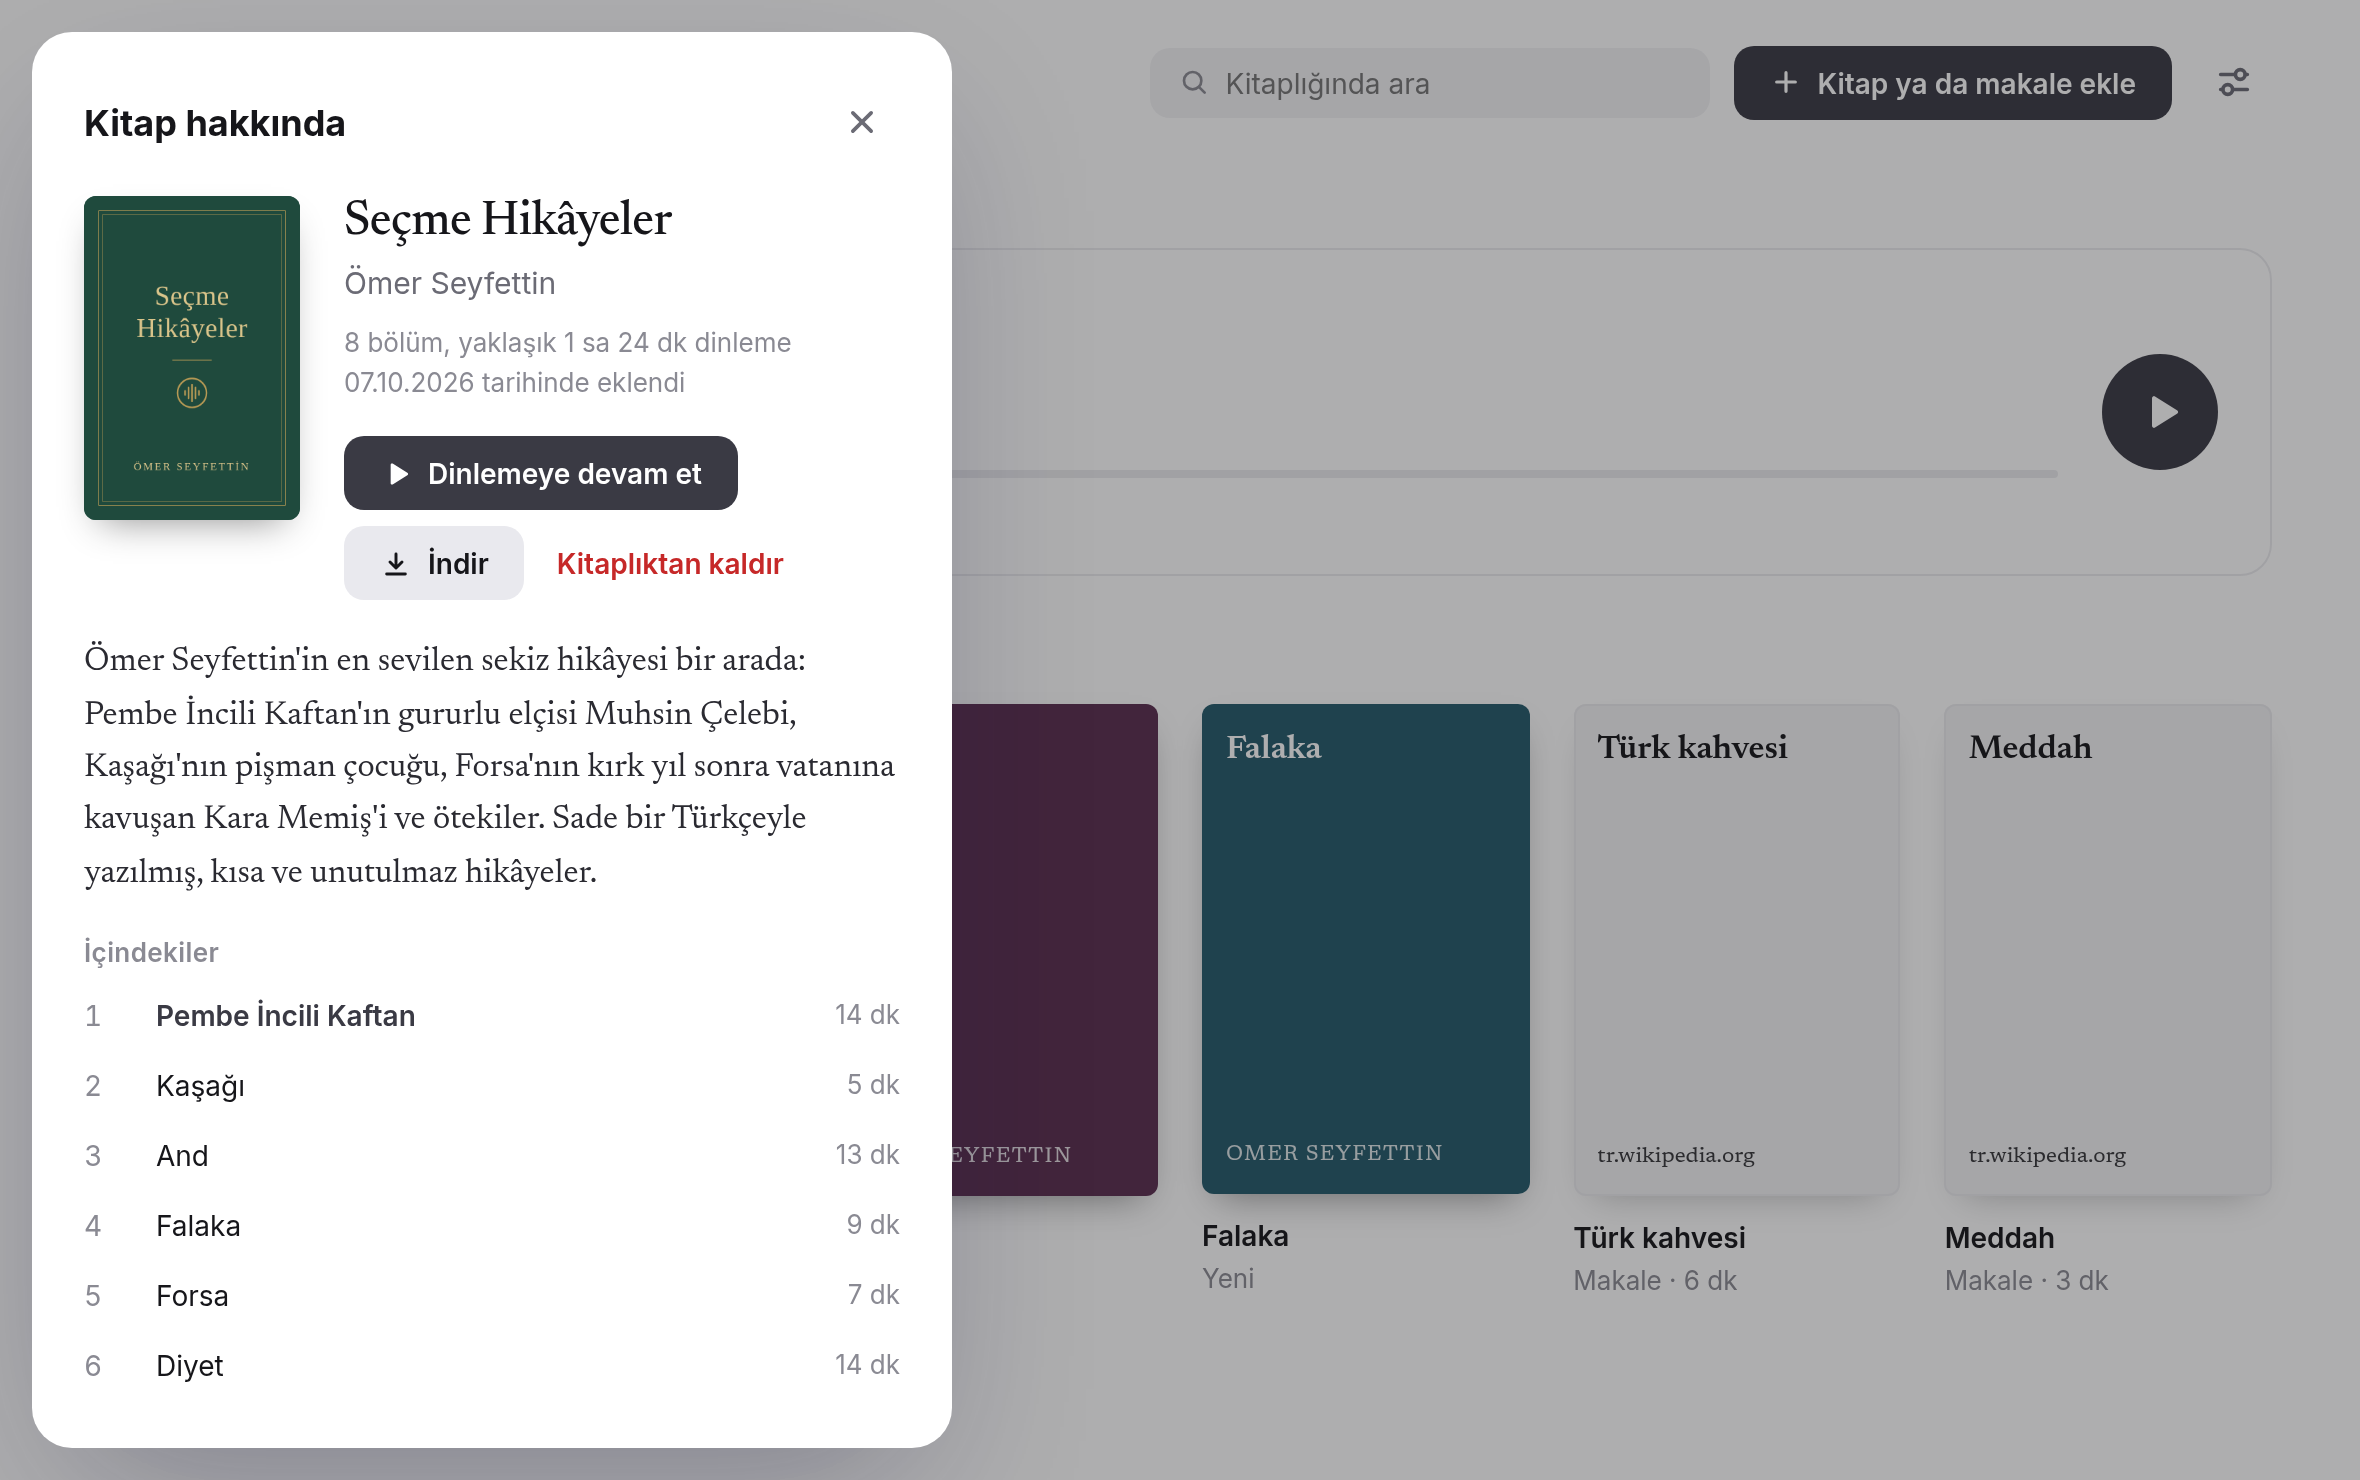
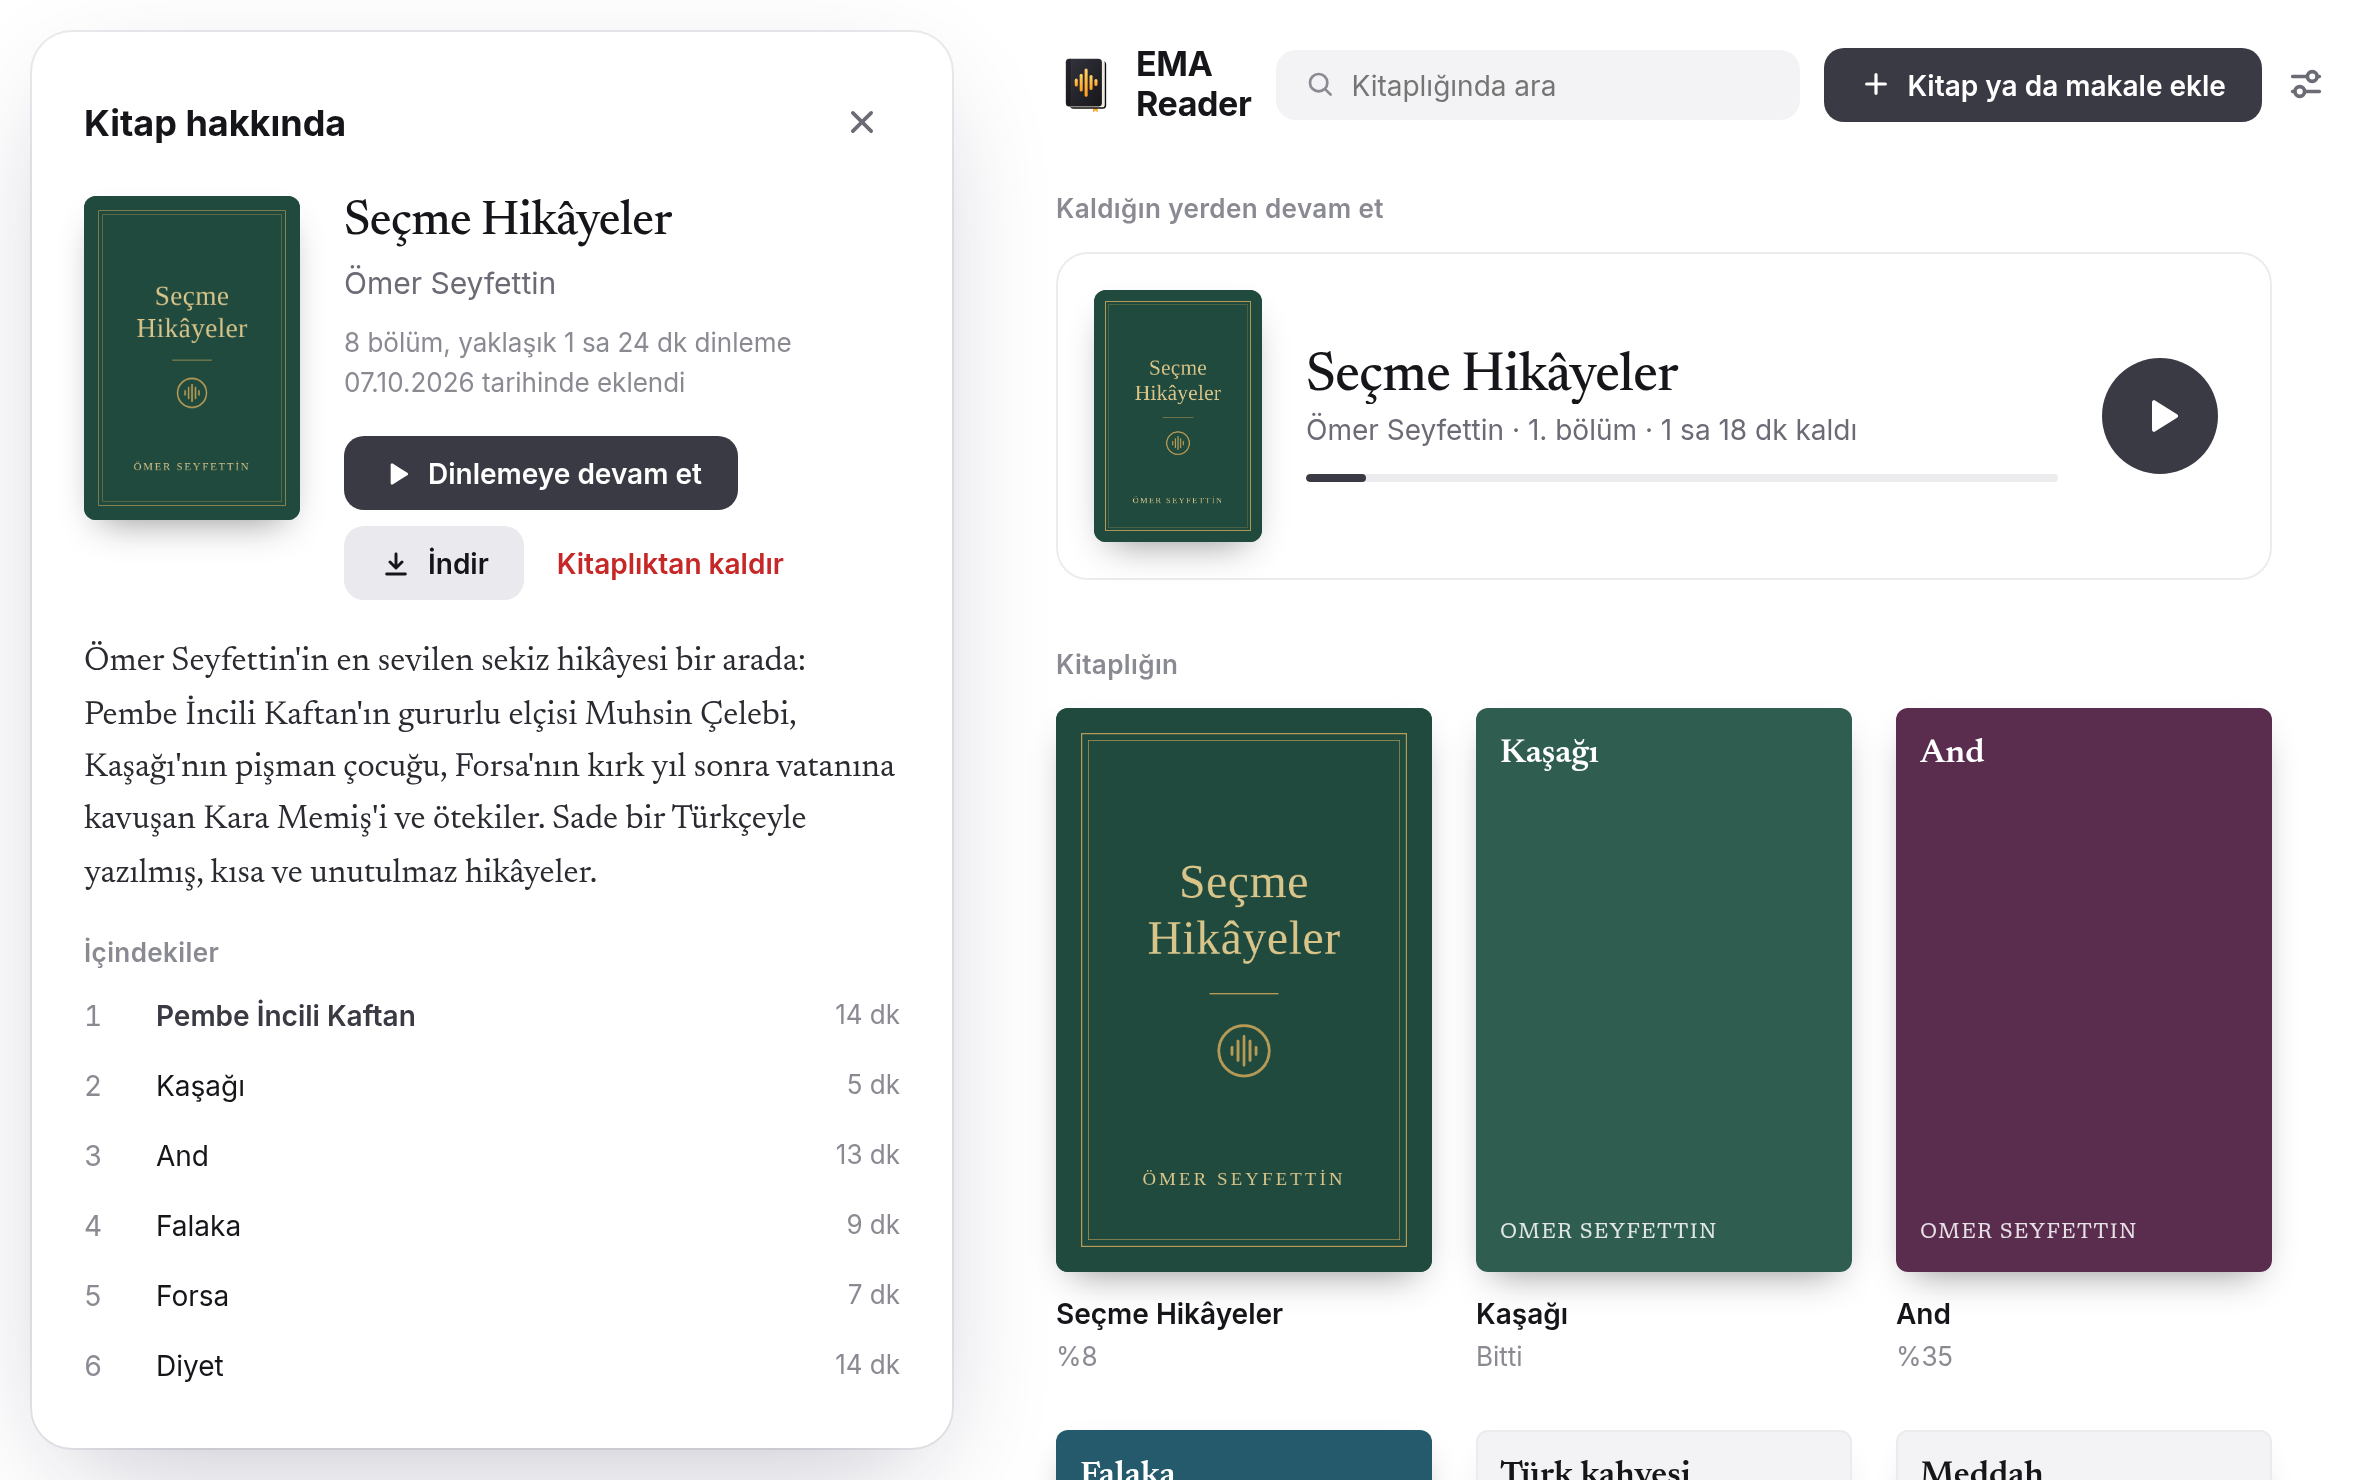
Open a book's details beside the page instead of over it
The panel floats in at the left edge and the page narrows to make room, so the library and
the reader stay in use while it is open. Where the window is too narrow to give room, the
panel lies over the page as before. Escape and its close button put it away.

diff --git a/static/index.html b/static/index.html
@@ -154,15 +154,18 @@
   .contents small { color: var(--faint); font-size: 13px; white-space: nowrap; }
   .contents button.current span { font-weight: 600; color: var(--accent); }
 
-  /* about a book: not a window in the middle but a panel that floats in from the left */
-  #info-dialog { inset: 16px auto 16px 16px; margin: 0; width: min(460px, calc(100vw - 32px)); height: calc(100vh - 32px); max-height: none; animation: panel-in .22s ease-out; }
+  /* about a book: not a window over the page but a panel that floats in at the left edge, and the page makes room for it */
+  #info-dialog { position: fixed; z-index: 6; inset: 16px auto 16px 16px; margin: 0; width: min(460px, calc(100vw - 32px)); height: calc(100vh - 32px); max-height: none; overflow-y: auto; animation: panel-in .22s ease-out;
+                 box-shadow: 0 20px 60px -20px var(--shade), 0 0 0 1px var(--line); }
+  body { padding-left: var(--side, 0px); transition: padding-left .22s ease-out; }
+  @media (min-width: 1000px) { body.with-info { --side: 484px; } }   /* a narrower window has no room to give: there the panel lies over the page */
   #info-dialog .sheet { display: flex; flex-direction: column; min-height: 100%; }
   #info-dialog .bookhead .cover { width: 108px; }
   #info-dialog .bookhead h3 { font-size: 24px; }
   #info-dialog .describe { flex: none; }
   #info-dialog .contents { flex: 1 1 0; min-height: 150px; max-height: none; }
   @keyframes panel-in { from { opacity: 0; transform: translateX(-28px); } }
-  @media (prefers-reduced-motion: reduce) { #info-dialog { animation: none; } }
+  @media (prefers-reduced-motion: reduce) { #info-dialog { animation: none; } body { transition: none; } }
 
   .options { display: grid; grid-template-columns: repeat(3, 1fr); gap: 8px; }
   .options button { text-align: left; padding: 12px 14px; border-radius: 12px; border: 1.5px solid var(--line); min-width: 0; }
@@ -197,7 +200,7 @@
   #text span:hover { background: var(--soft); }
   #text span.current { background: var(--accent-soft); color: var(--ink); }
 
-  #player { position: fixed; left: 50%; bottom: 26px; transform: translateX(-50%); display: flex; align-items: center; gap: 14px; padding: 10px 14px 10px 12px; border-radius: 999px; background: var(--surface); box-shadow: 0 14px 40px -10px var(--shade), 0 0 0 1px var(--line); }
+  #player { position: fixed; left: calc(50% + var(--side, 0px) / 2); bottom: 26px; transform: translateX(-50%); display: flex; align-items: center; gap: 14px; padding: 10px 14px 10px 12px; border-radius: 999px; background: var(--surface); box-shadow: 0 14px 40px -10px var(--shade), 0 0 0 1px var(--line); }
   #play { width: 48px; height: 48px; border-radius: 50%; background: var(--accent); color: var(--on-accent); display: grid; place-items: center; }
   #play:hover { opacity: .88; }
   #player .mini { width: 36px; height: 36px; border-radius: 50%; display: grid; place-items: center; color: var(--muted); }
@@ -667,6 +670,7 @@ document.querySelectorAll("dialog").forEach(dialog => {
   dialog.querySelectorAll("[data-close]").forEach(b => b.onclick = () => dialog.close());
   dialog.addEventListener("click", e => { if (e.target === dialog) dialog.close(); });
 });
+$("info-dialog").addEventListener("close", () => document.body.classList.remove("with-info"));
 const chapterTitle = (b, n) => b.chapters[n].title || t("chapterN", n + 1);
 
 /* library */
@@ -793,7 +797,9 @@ window.addEventListener("drop", e => {
 
 /* about a book: its cover, description and contents */
 
+let infoOf = null;   // the book the panel is about
 async function openInfo(id) {
+  infoOf = id;
   const b = book?.id === id ? book : await api(`/api/books/${id}`);
   const about = b.about || {};
   const sizes = b.chapters.map(c => c.paragraphs.reduce((sum, p) => sum + p.reduce((n, s) => n + s.length, 0), 0));
@@ -829,7 +835,8 @@ async function openInfo(id) {
     row.onclick = () => open(i, 0, false);
     return row;
   }));
-  $("info-dialog").showModal();
+  $("info-dialog").show();   // not modal: the page stays in use beside it
+  document.body.classList.add("with-info");
 }
 
 /* downloading: a chapter or the whole book, as audio or text */
@@ -1005,6 +1012,7 @@ checkUpdate();
 
 async function openBook(id, start = false, number = null, sentence = null) {
   book = await api(`/api/books/${id}`);
+  if (infoOf !== id) $("info-dialog").close();   // the panel beside the page was about another book
   $("library").hidden = true; $("reader").hidden = false;
   $("book-title").textContent = book.title; $("book-author").textContent = book.author || "";
   document.title = `${book.title} · EMA Reader`;
@@ -1245,7 +1253,8 @@ showSpeed();
 
 document.addEventListener("keydown", e => {
   if (e.key === "Escape") { $("speeds").hidden = true; $("chapters").classList.remove("open"); }
-  if (!book || document.querySelector("dialog[open]") || tour.step >= 0 || e.target.matches("input")) return;
+  if (e.key === "Escape" && !document.querySelector("dialog:modal")) $("info-dialog").close();
+  if (!book || document.querySelector("dialog:modal") || tour.step >= 0 || e.target.matches("input")) return;
   if (e.key === " " && e.target.matches("button")) return;   // the focused button handles it
   if (e.key === " ") { e.preventDefault(); toggle(); }
   else if (e.key === "ArrowRight") jump(index + 1);
